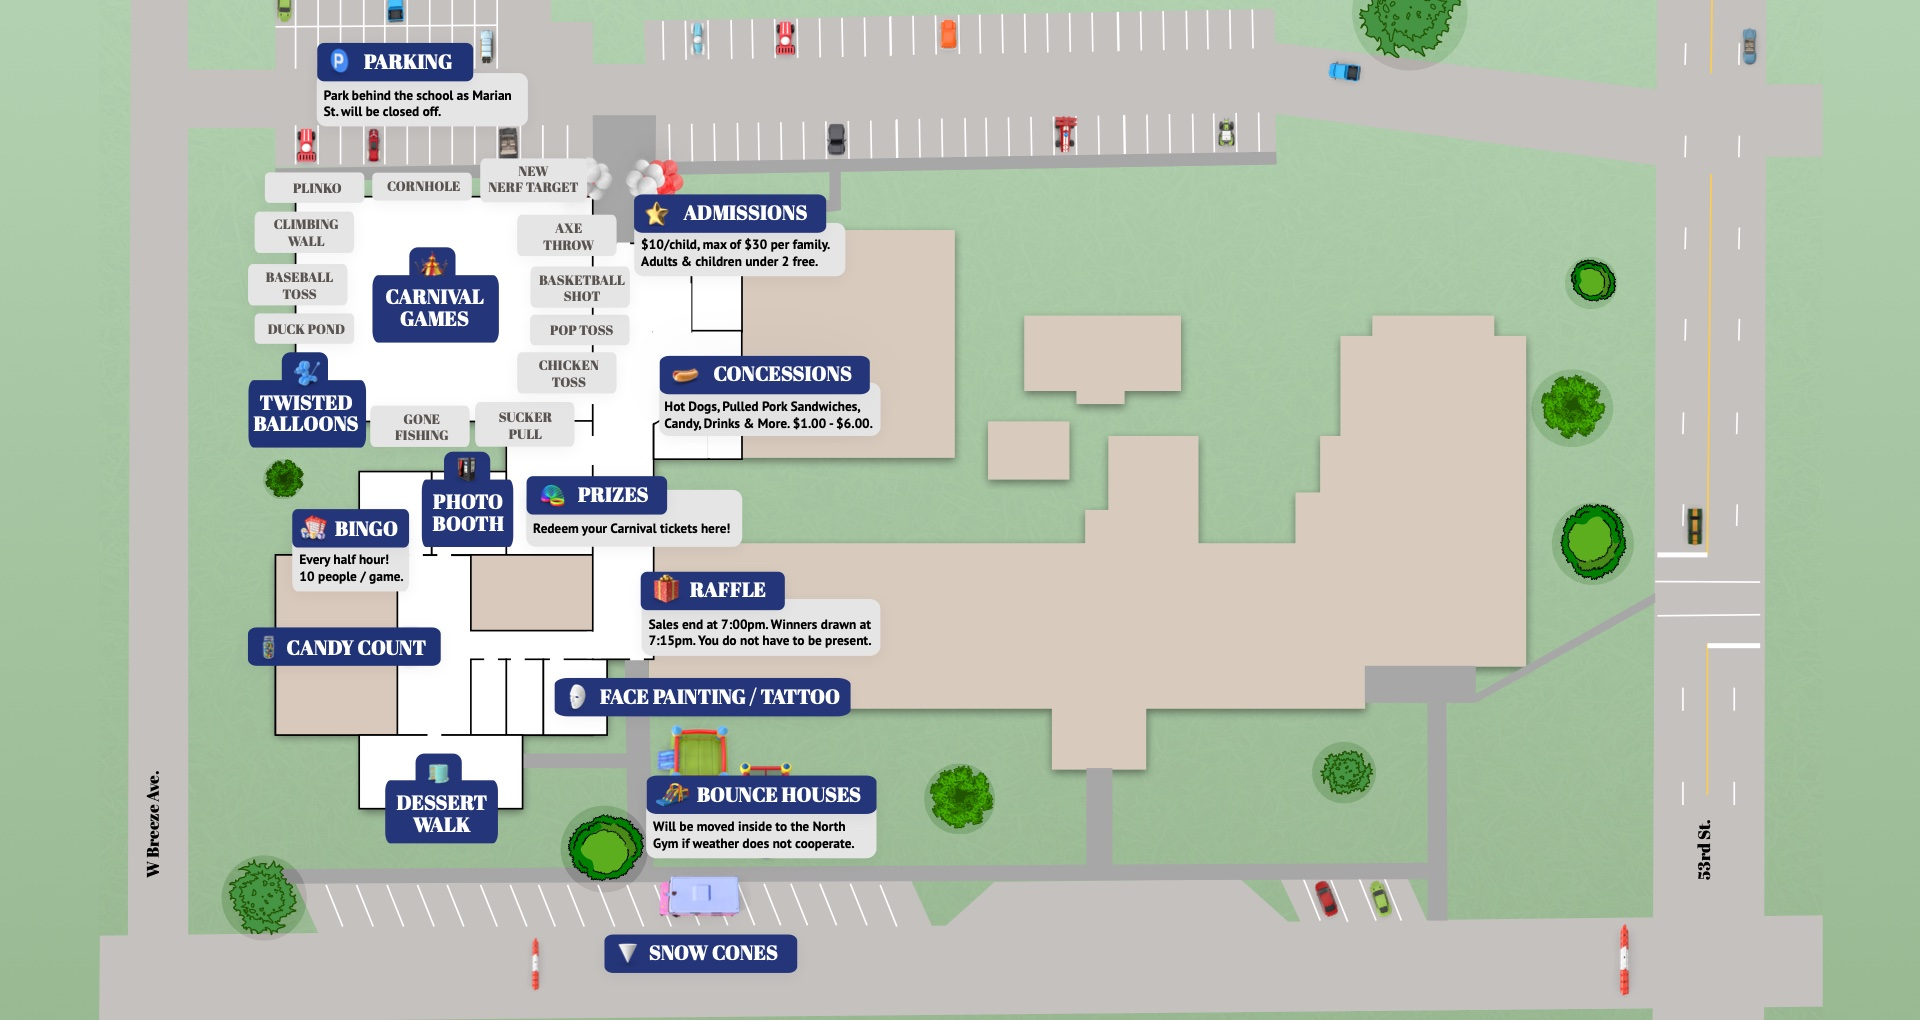
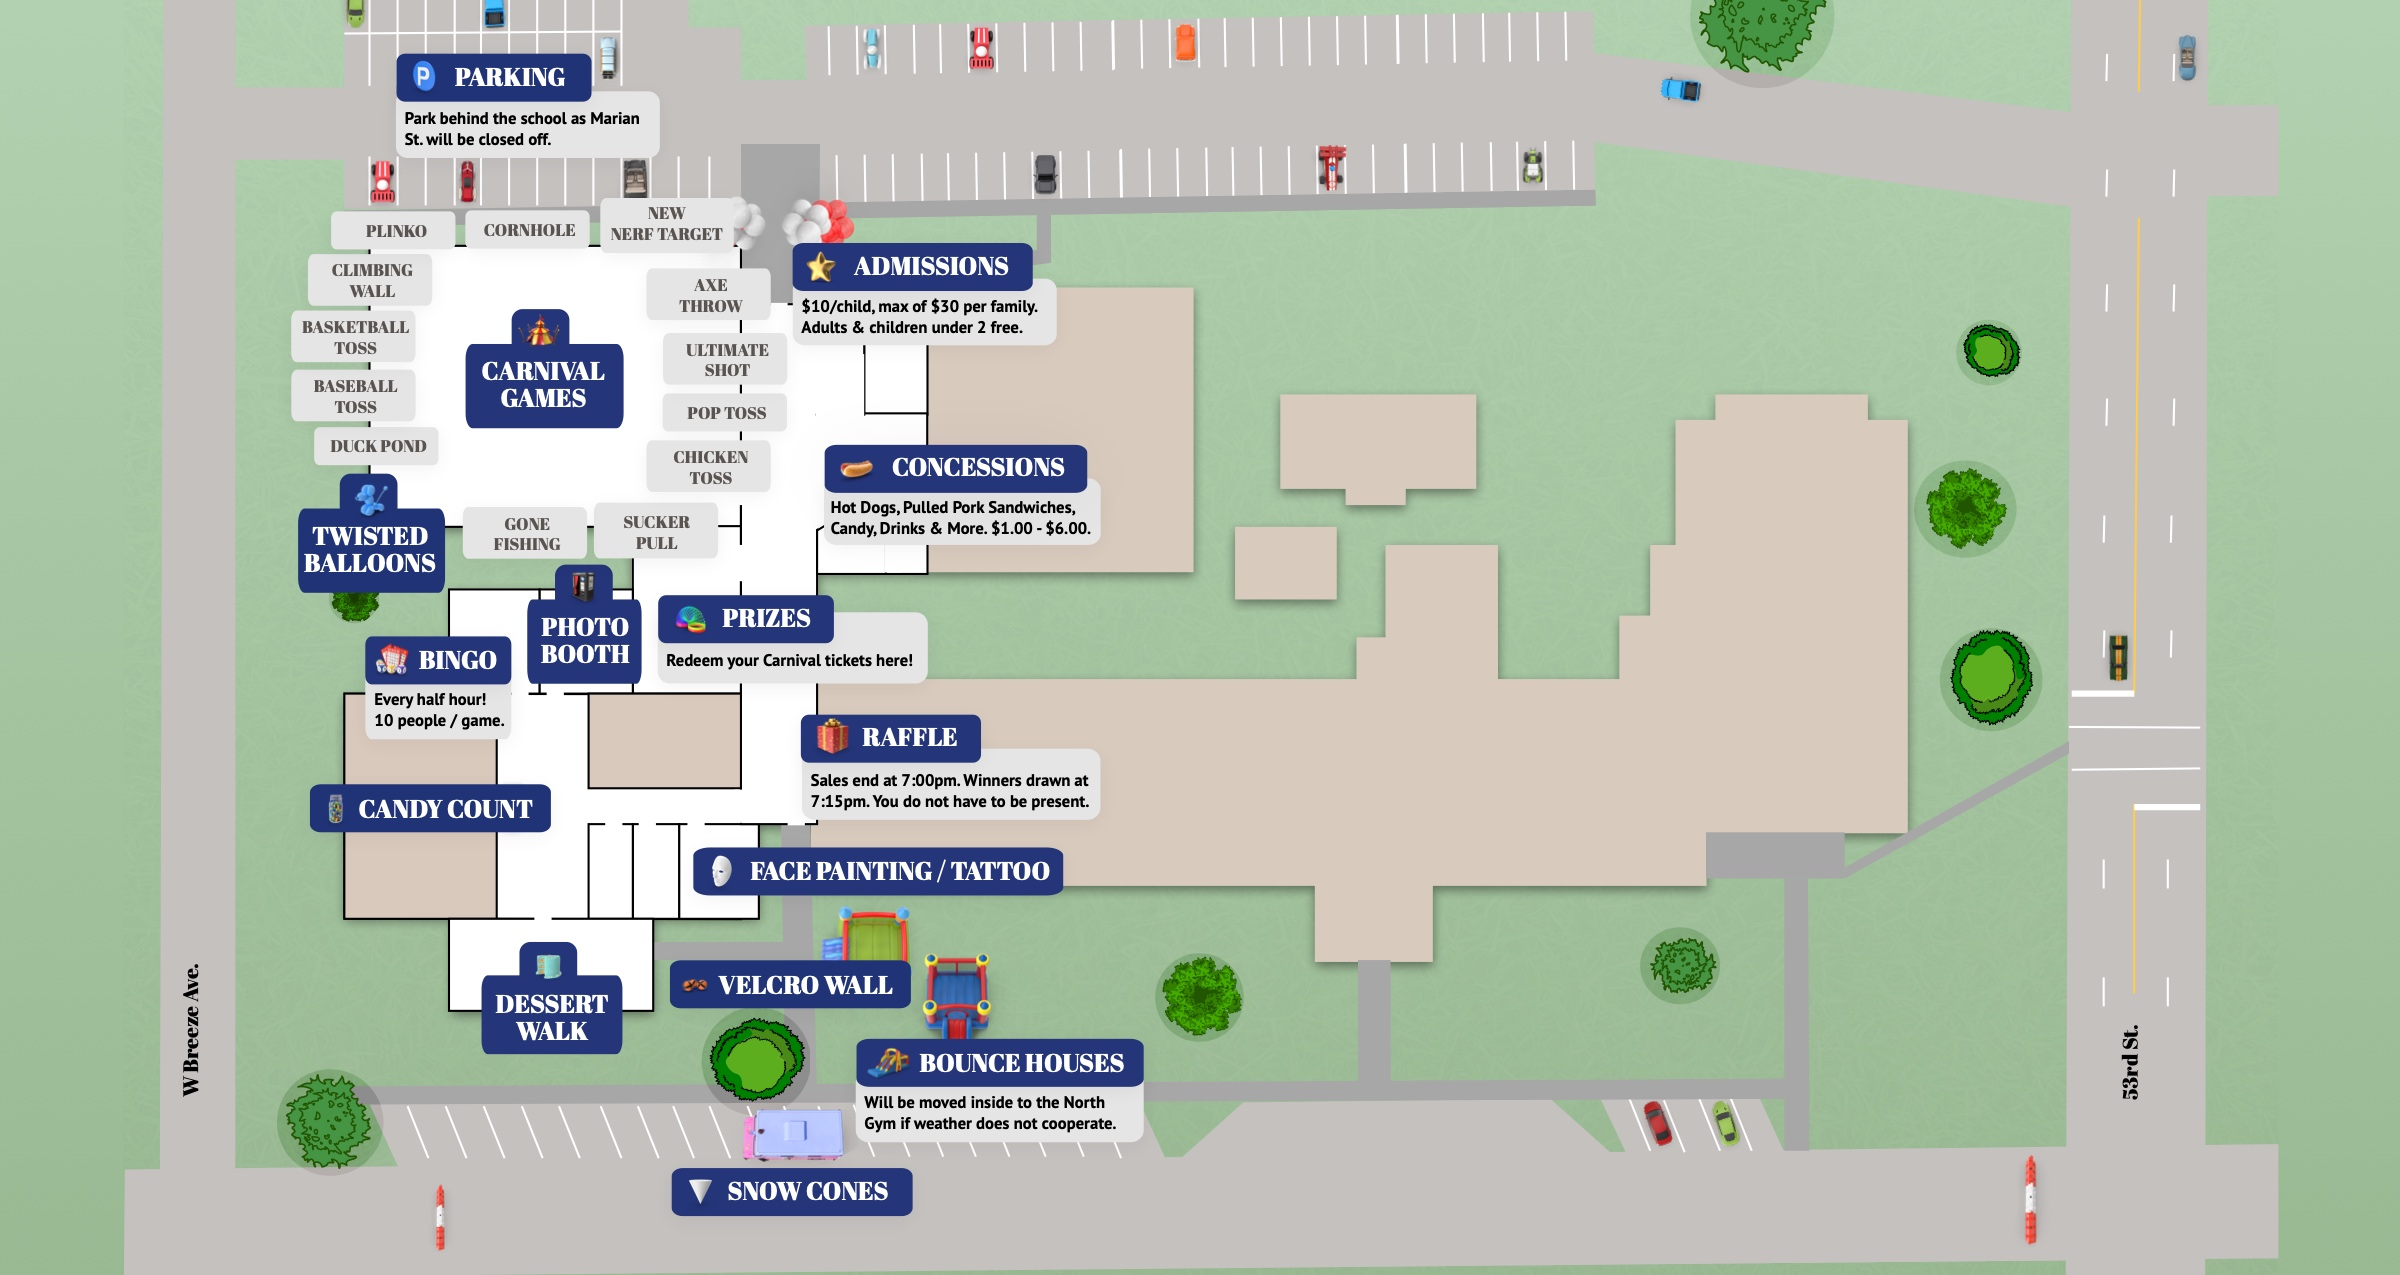
new map

diff --git a/content/faq/carnival/q1.md b/content/faq/carnival/q1.md
@@ -3,4 +3,4 @@ question: Where do I park?
 type: faq
 faq_category: carnival
 ---
-Carnival will take place in Colwich Elementary School located at 401. S Marion St. Entry will be on the West side of the building where the pre-school classrooms are located. Parking will be available in that area. For more information, check out our [Carnival Map!](/images/carnivalmap.jpg)
+Carnival will take place in Colwich Elementary School located at 401. S Marion St. Entry will be on the West side of the building where the pre-school classrooms are located. Parking will be available in that area. For more information, check out our [Carnival Map!](#section5)

diff --git a/content/faq/carnival/q4.md b/content/faq/carnival/q4.md
@@ -3,4 +3,4 @@ question: What's new this year?
 type: faq
 faq_category: carnival
 ---
-Each year, we collect feedback and try to slightly change Carnival for the better. This year, we're adding in an attraction for the middle schoolers, making the Raffle ticket process easier, and adding in more food options.
+Each year, we collect feedback and try to slightly change Carnival for the better. This year, we're adding in an attraction for the middle schoolers (Velcro Wall), making the Raffle ticket process easier, and adding in more food options. We've also refreshed a few of the games and are bringing in the obstacle course bounce house.

diff --git a/content/modules/carnival/prizeroom.md b/content/modules/carnival/prizeroom.md
@@ -7,4 +7,4 @@ has_header: false
 image: /images/prizeroom.jpg
 custom_class: "display_image_first"
 ---
-Win tickets by playing the Carnival Games, and redeem them in the prize room. When you go through admissions, you'll be given a punch card necklace. Upon completing each game, your necklace will get a punch. Prize room closes at 7:30pm.
+Win tickets by playing the Carnival Games, and redeem them in the prize room. When you go through admissions, you'll be given a punch card necklace. Upon completing each game, your necklace will get a punch. **Prize room closes at 7:30pm**.

diff --git a/content/modules/carnival/games.md b/content/modules/carnival/games.md
@@ -6,4 +6,4 @@ module_type: content_list
 data_type: games
 has_header: true
 ---
-This year we have **12** games for you to enjoy! Completing these games will win you prizes in the [Prize Room.](#section3) You can also find more fun and prizes in our additional [Activities!](#section2)
+This year we have **13** games for you to enjoy! Completing these games will win you prizes in the [Prize Room.](#section3) You can also find more fun and prizes in our additional [Activities!](#section2)

diff --git a/content/modules/carnival/map.md b/content/modules/carnival/map.md
@@ -7,7 +7,7 @@ link: "/about/"
 subtitle: "Map."
 has_header: false
 has_footer: false
-image_url_small: "/images/SchoolMapSmall.png"
+image_url_small: "/images/SchoolMapSmall.jpg"
 image_url_medium: "/images/SchoolMap.jpg"
 image_url_large: "/images/SchoolMap.jpg"
 ---

diff --git a/content/sponsors/hso.md b/content/sponsors/hso.md
@@ -1,0 +1,11 @@
+---
+title: HSO
+type: sponsor
+sponsor_id: hso
+website: "https://colwichhso.com"
+subtitle: "Supporting Colwich Elementary School."
+logo: "hsonewlogo.svg"
+active: true
+tier: -1
+---
+Module content text assuming that there is a sub page.
